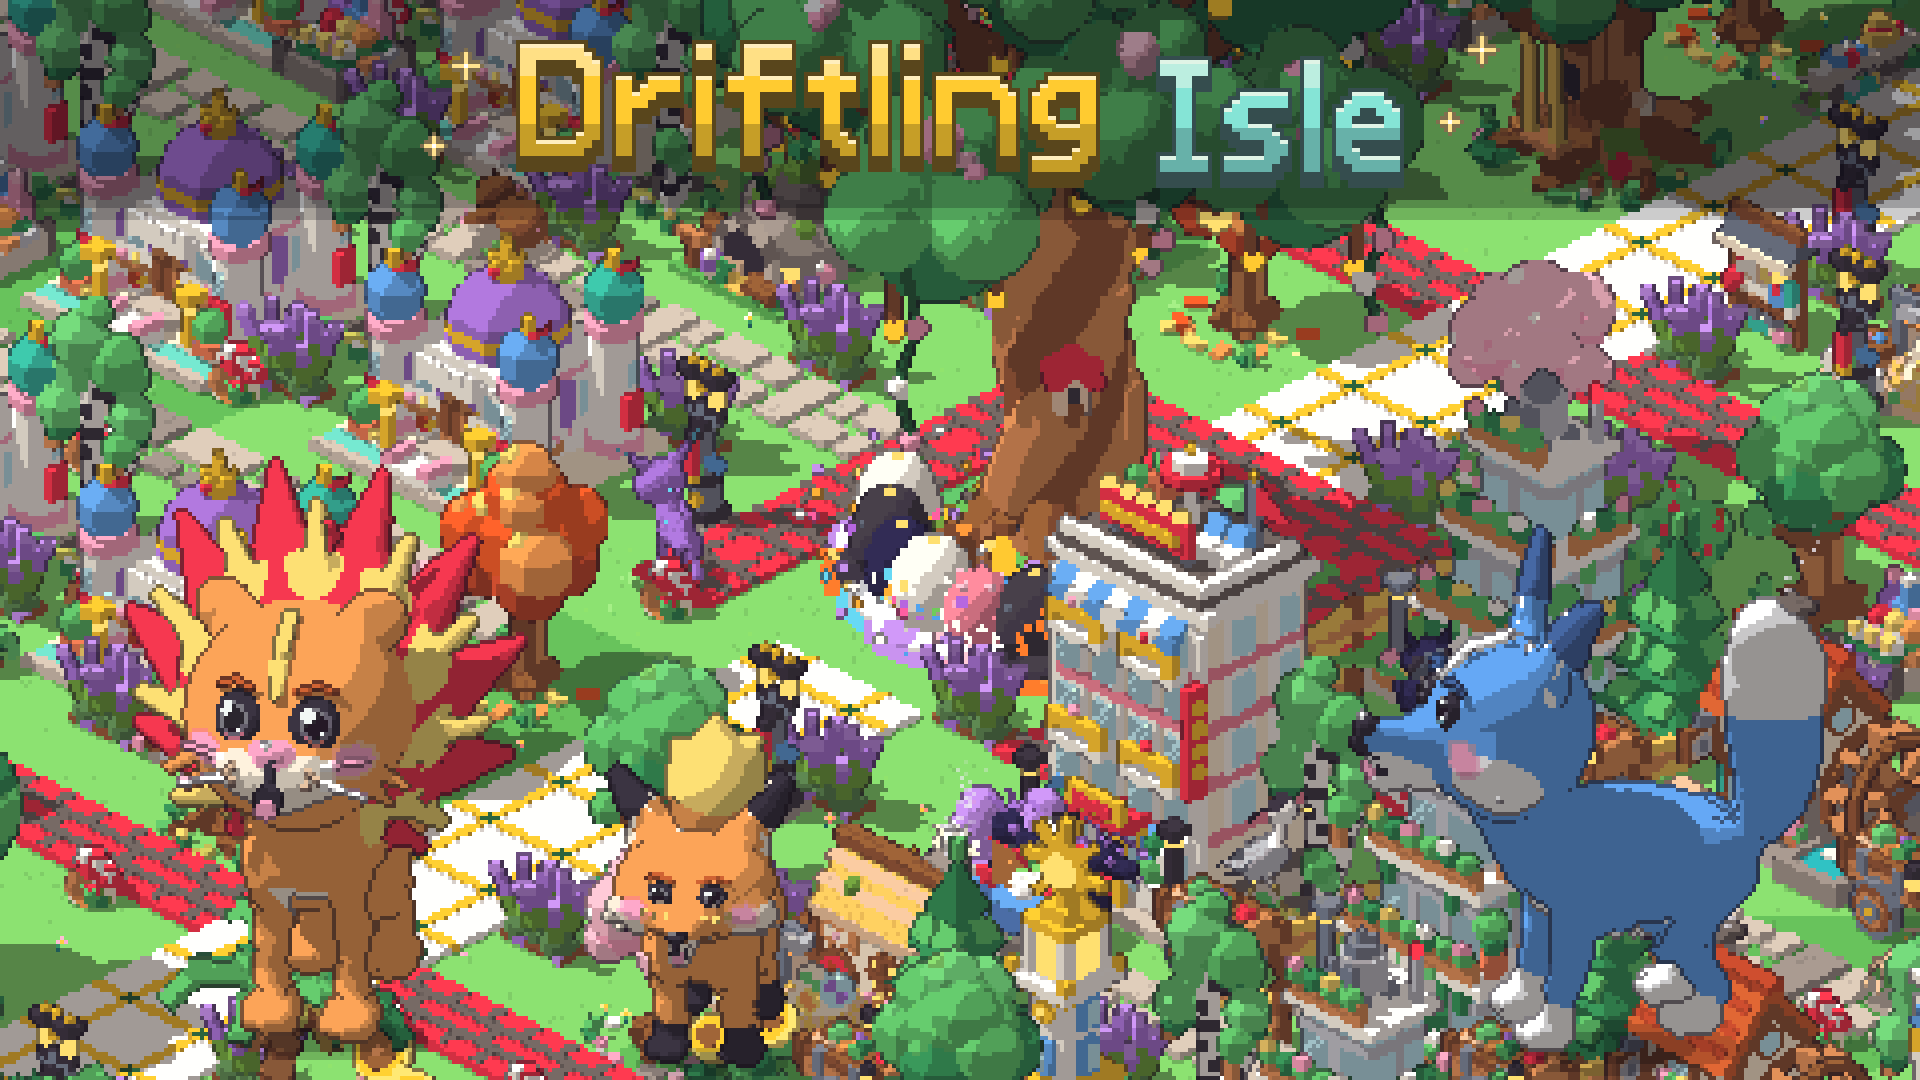
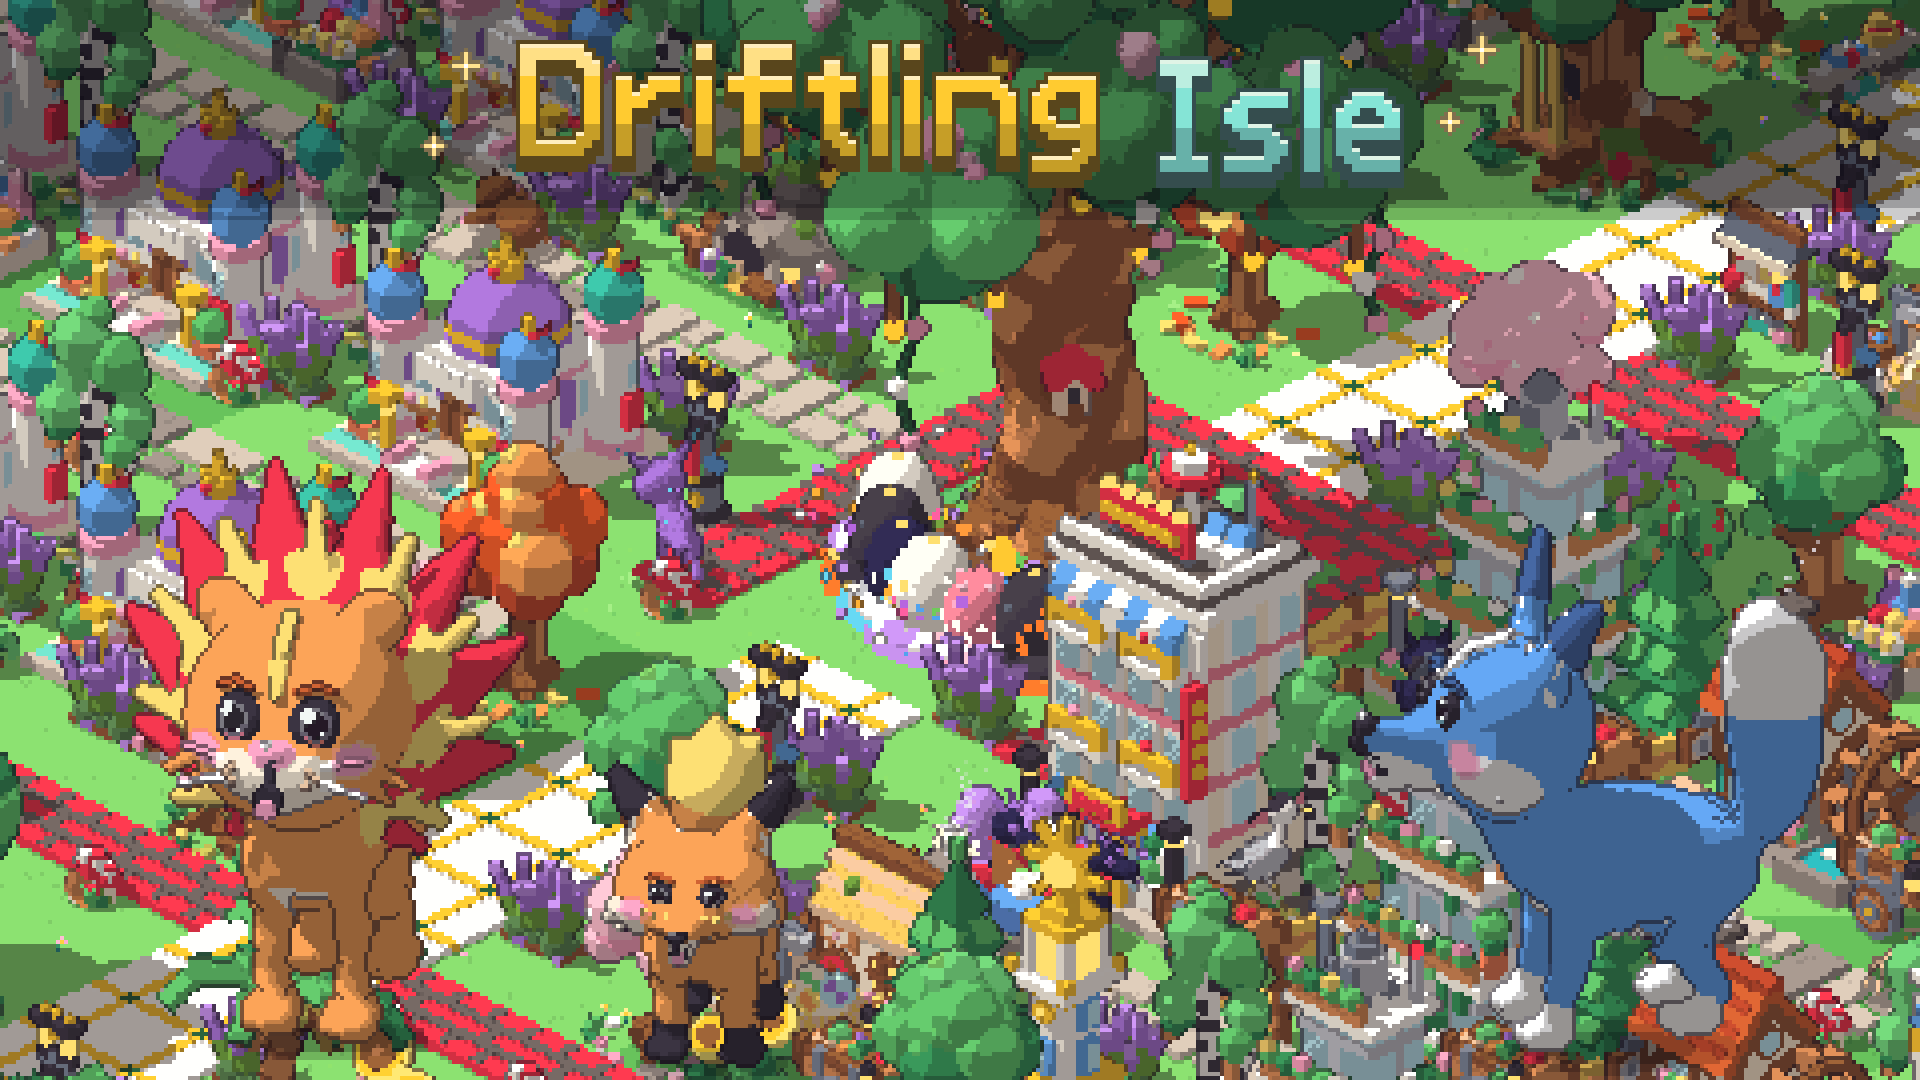
Tree of Life: the trunk back as it was; preview treebake
At the user's request ("please dont change how the trunk looks, keep it as it
was before. just fix the bug") the strands and roots take two woods by turns
again, the knots and the wood's grain are back and the wood is lit as before.
Only the glowing marks stay off. The thumbnails and the loading still are
rendered again with it.

New preview treebake: the island baked again on the real clock, a frame at a
time as the game does, then the tree checked against a fresh cast (445 frames,
0 pixels off).

Claude-Session: https://claude.ai/code/session_01MB1RUFKET2ZiukLybtpPJi

Changed region(s): [[0.5, 0.3056, 0.5938, 0.5194], [0.5, 0.2139, 0.5938, 0.3361], [0.625, 0.0306, 0.6562, 0.0611]]

diff --git a/tools/README.md b/tools/README.md
@@ -162,6 +162,7 @@ clipped every label and hid the overflow players saw).
 | `expandperf=<tier>` | `expandperf_before`, `expandperf_after` | an island at that tier with every limit filled (`fillMax`, up to 60 driftlings) in Build mode, its next island built ahead and, before the timing, its picture cast ahead (the scenario waits for the job, up to 3000 frames, and logs it), timed on the real clock: 120 frames standing, then `island.expand` asked straight from the server inside the first timed frame (the tray's loading card left out, so the swap and the filter's work are what is timed) (the server's answer counts in it) and frames until the new land is drawn (the tier changed, 20 frames past it, no bake or re-cast left), then 120 standing. Each part logs the frames (the slowest and where), the pixel filter's share and its re-casts (and their finishing), the parts that came or went and their rects' ms, the scripts' ms a frame, WorldView's parts, and the harness's own raycast index rebuilds (a cost Roblox does not have: a part come or gone makes the harness rebuild its BVH on the next ray); then the swap (tiles pasted from the cast ahead, cast again, part changes skipped and others) and a check of the picture against a fresh cast |
 | `expandrim=<tier>` (options `:quick`, `:xN`, `:ui`, `:replica`, `:midbake`, joined) | `expandrim_before`, `expandrim_after`, `expandrim_worst` | the reports of 2026-11-20, "there are artifacts that appear around after expanding" and "the tree outlines are still broken": an island at that tier at night in the rain, in Build mode; the view dragged round the island (Build mode's drag, `CameraController.panBy`, 40 art px a step: out to the drag's limit and round, or with `:quick` four steps out and back) so the pan cache holds it, the next island built ahead and cast ahead, then Expand (straight to the server, or with `:ui` through the tray and its loading card) and the drag round again, N times with `:xN`. At every step the layer is checked against a fresh cast with its ink (`PixelRenderer.debugCastCheck(true, true)`): the pixels off, sorted into sky where a part is, a part where there is sky, ink alone and ties (two faces at one depth, the ray index's to pick, not counted), the 32 px tiles they fall in, and those inside the Tree of Life's box. `:replica` swaps the tree that lands for a fresh copy of itself (what a client receives of a model the server parents to nil on the way); `:midbake` starts a whole bake just before the expansion lands. The log says whether each round's next island was cast ahead (the job's tier, tiles done, switched) and what the swap pasted; a warning (EXPANDRIM) when any pixel is off |
 | `treewalk[=<tier>]` (options `:expand`, `:sim`) | `treewalk_start`, `treewalk_worst`, `treewalk_end`, `treewalk_fresh` | the report of 2026-11-20, "the tree still looks like this" (creases in the trunk and a ragged outline in play, which no fresh picture showed): an island at that tier (11 by default) at midday, played the way a player does. The founder walks a loop round the Tree of Life, out across the island and back with the view following, stands, hatches an egg (the hatch scene's stage and back), moves the View slider to 5, 9 and back to 7, opens and shuts Build mode and walks on (`:expand`: after one expansion first). The renderer's budgets read the real clock as in the game, so bakes and re-casts spread over frames (`:sim`: the simulator's clock). Every few frames the layer is checked against a fresh cast over the tree's box (`PixelRenderer.debugCastCheck(true, true)`), the pixels off counted by kind, the layer's outermost row and column apart (a fresh cast inks them against nothing past the edge); `treewalk_fresh` is the last view baked afresh. `python3 tools/preview/tree_walk.py <outdir>` marks the worst check's pixels on its frame and puts the last frame beside the fresh one with their difference. A warning (TREEWALK) when one check has more than 6 pixels off inside the layer (a pixel or two at a shadow's edge, lit one way on the layer and the other in a fresh cast, is the usual). Its first runs (tier 11 and 16, desktop and phone, and after an expansion that grows the tree a stage): 3 to 24 pixels over 144 checks, never more than 2 at one, all of them sun on a shadow's edge; nothing like the creases of the report |
+| `treebake[=<tier>]` | `treebake_after`, `treebake_fresh` | the reports of 2026-11-20 (the tree's small round pieces with spikes and loose outline pixels in the game): the harness bakes on the simulator's clock, which stands still inside a frame, so a bake always finished in one; the game spreads a bake over many frames. An island at that tier (1 by default) at midday, its picture baked again on the real clock frame by frame, then checked against a fresh cast over the tree's box (TBMASK rows mark what is off). A warning (TREEBAKE) past 6 pixels off. Its first run: 445 frames, 0 off |
 | `treesplit[=<tier>]` | `treesplit_after`, `treesplit_fresh` | the report of 2026-11-20, "this only happens to the tree of life": in the game the Tree of Life's 400 to 800 parts reach the client over several frames, never at once as here. An island at that tier (11 by default) at midday, drawn; the tree taken away and its parts brought back into a new model in five batches a few frames apart (a sixth first); then the layer checked against a fresh cast over the tree's box. A warning (TREESPLIT) past 6 pixels off. With `SmoothParts.changed` in: 0; without it: 1 |
 | `ambient` | `ambient`, `ambient_000` .. `ambient_015`, `ambient_flee_000` .. `009`, `ambient_night` | the islands' small lives (GAME_DESIGN 8.1, `Controllers/AmbientView`) on a harbour island with chimneys, a smokehouse, a grill, trees and a picket fence by the plaza: the birds called in (`AmbientView.debugHurry`) and landed (`ambient`); a frame every eighth of a second for two seconds (`ambient_000` ..: hops, pecks, tufts leaning in a gust, smoke curling, glints; `make_gif.py <outdir> ambient <device> 8`); the founder put by a perched bird and a frame every tenth of a second as it flies off (`ambient_flee_*`); the island at night with its fireflies (`ambient_night`). The log lists every bird (its kind, state, perch and screen px), what is drawn in each frame, and the timing: 90 frames at 60 Hz on the real clock with the lives, 90 without (`AmbientView.setSuspended`) and 90 with them again, the client's whole frame each time, and a tick's effect costs (`PixelRenderer.fxStats`: the layers' ms, the books' ms, pixels written and changed, rects and pixels uploaded; and the layer's parts: the life, the tufts, the glints and particles, the creatures) |
 | `work` | `work`, `work_000` .. `work_015` | the village a while on, its driftlings at work at the fields, the lumber camp, the pier and the stall, or napping at a hut, then a frame every eighth of a second for two seconds (`python3 tools/preview/make_gif.py <outdir> work desktop`) |

diff --git a/CLAUDE.md b/CLAUDE.md
@@ -19,7 +19,7 @@ village island2 island3 city everdrift gallery tree treeink day dusk night dawn 
 loading themes hatches weathers crowd alerts`, `showcase=<1..20>` (a well decorated town on an island of that expansion level), `panel=<pals|work|tree|hatch|index|looks|pal|settings|welcome|rewards>` (and `panel=store:<passes|eggs|shop|track>`, `panel=looks:<skin|style|bangs|hair|eyes|shirt|top|apron|hat|face|neck|back|hand|outfits|titles>` (the My founder screen), `panel=rewards:<today|tasks|spin|index|codes>`), `hatch=<r><hr>` (the hatch scene: an egg laid as rarity r
 that hatches as hr), `pals=<n>` or `pals=<id>,<id>` (eight driftlings up close), `looks=<n>` or `looks=<id>,<id>` (eight founders up close wearing
 the cosmetics, with their white outlines and name tags; `looks=f<1..5>` the customization screen's features: new styles, bangs,
-aprons and eye colours, tints and the hand's turn, covering hats), `stress=<n>` (the full-island stress walk's first n legs), `expandperf=<tier>` (a full island at that tier expanded once, every frame timed), `expandrim=<tier>[:quick][:xN][:ui][:replica][:midbake]` (expansions with the view dragged round the island, the picture checked against a fresh cast at every step, over the tree too), `treeink=<n>` or `treeink=<n>,<tier>[,<turn>]` (the Tree of Life's stray marks and loose bits counted at View notch n at midday, on an island of that tier, turned by `<turn>` degrees), `treewalk[=<tier>][:expand]` (the founder walking round the tree as a player does, hatching an egg, the View slider moved, Build mode opened, the tree's box checked against a fresh cast every few frames; `tools/preview/tree_walk.py <outdir>` marks what is off), `treesplit[=<tier>]` (the tree's parts handed over in batches, as the game's replication does, then checked against a fresh cast), `zoom=<1..10>` or `zooms` (the harbour island with the View slider on that notch, the Settings panel open and shut), `screen=<125|150|175|200>` (Settings' Screen at that scale: the log says the pixel size in the screen's own pixels and whether the pixel layer and every interface canvas sit on whole ones), `anim=<id>` or `anim=<id>:<mood>,<mood>` (one driftling moving
+aprons and eye colours, tints and the hand's turn, covering hats), `stress=<n>` (the full-island stress walk's first n legs), `expandperf=<tier>` (a full island at that tier expanded once, every frame timed), `expandrim=<tier>[:quick][:xN][:ui][:replica][:midbake]` (expansions with the view dragged round the island, the picture checked against a fresh cast at every step, over the tree too), `treeink=<n>` or `treeink=<n>,<tier>[,<turn>]` (the Tree of Life's stray marks and loose bits counted at View notch n at midday, on an island of that tier, turned by `<turn>` degrees), `treewalk[=<tier>][:expand]` (the founder walking round the tree as a player does, hatching an egg, the View slider moved, Build mode opened, the tree's box checked against a fresh cast every few frames; `tools/preview/tree_walk.py <outdir>` marks what is off), `treesplit[=<tier>]` (the tree's parts handed over in batches, as the game's replication does, then checked against a fresh cast), `treebake[=<tier>]` (the island baked again on the real clock, a frame at a time as in the game, then the tree checked against a fresh cast), `zoom=<1..10>` or `zooms` (the harbour island with the View slider on that notch, the Settings panel open and shut), `screen=<125|150|175|200>` (Settings' Screen at that scale: the log says the pixel size in the screen's own pixels and whether the pixel layer and every interface canvas sit on whole ones), `anim=<id>` or `anim=<id>:<mood>,<mood>` (one driftling moving
 on its skeleton, eight frames a mood; a mood `act_<name>` plays one of DriftMotion's idle acts through in nine frames), `catalog=<group>` (a group of the build catalog: `ground fence
 nature theme theme2 fun`, a Build mode tab or ids), `theme=<beach|garden|frost|zen|volcano|fairy>` or `weather=<sunny|breezy|rain|storm|fog|snow|blossom|haze|leaves>` (the village by its tree in that weather, two touched eggs, the HUD's season and weather lines). The loading card's
 art is generated: `sh tools/preview/loading_art.sh` (after changing a model it shows); so are the game passes' and

diff --git a/docs/GAME_DESIGN.md b/docs/GAME_DESIGN.md
@@ -1541,24 +1541,12 @@ blue rectangles stuck on the trunk. They are gone at every stage. The tree's lig
 fruit, its lanterns and its rings of light. (The paragraphs above describe the tree as it was built; where they mention
 runes or marks on the stones, those are the parts that went.)
 
-**One wood a strand** (the report of 2026-11-20, "this only happens to the tree of life, can you look into it?", after
-"it still looks uneven no matter what pixel scale i use"). The game draws the tree as the previews do, so the trouble
-was in how it was built: each braided strand and each root took two woods by turns, a segment light and the next
-dark, with a knot (a ball with a dark heart) every third segment. At play size that came out as light and dark
-chunks with stepped edges all over the trunk, which nothing else on the island has. Now a strand is one wood from foot
-to limbs, a root one wood too, and the knots are gone, so the braid reads as three clean bands round the core. (The
+**The trunk as it was** (2026-11-20: "please dont change how the trunk looks, keep it as it was before. just fix the
+bug"). For a few builds the same day the strands and roots were one wood each, the knots and the wood's grain were
+gone and the wood was lit by its own shape; all of that is back as it was. Only the glowing marks stay off. (The
 renderer also gathers a smooth model's balls again whenever a part of it comes or goes: in the game the tree's parts
 reach the client over several frames. The preview `treesplit` hands them over in batches and checks the picture
 against a fresh cast.)
-
-**Wood without grain, lit by its own shape** (the report of 2026-11-20: "its still uneven. do you think it might be
-because of the dithering shading it uses?"). The shading bands have no dither, but the wood had grain: every small
-piece of the tree took its own pattern, so each slanted segment of a strand had grain running its own way, and its
-lighter marks, which show only in full light, broke the trunk's sunny side into speckled patches that read like a
-dither. A model lit as one smooth surface now takes no surface pattern at all. And the wood (the core, the strands,
-the roots and the limbs) is lit by its own round shapes like any log, the way a cylinder is shaded in pixel art: a
-clean light band down each strand's sunny side. Blended across the balls at its joints, a lit band's edge wavered from
-one joint to the next. The leaf clouds keep the blended light.
 
 **It grows with the island** (`Tree.stage`, `TreeStage` by tier: 1, 2, 2, 3, 3, 4 from the capital, 5 from Lantern Cove,
 6 from Amberfield): stage 2 on a Palm Isle and a Grand Isle, 3 on Harbor Town and Coral City, 4 from the capital to

diff --git a/docs/ARCHITECTURE.md b/docs/ARCHITECTURE.md
@@ -514,10 +514,8 @@ Models (`src/shared/Models`, Roblox modules):
   4; `StoneMoss` tufts, gold from stage 4, moss down the face, `Lichen`, a gap at the front);
   `Root`s flaring from about 1.8 studs up the trunk, the big ones dipping into the ground and coming up again past the
   stones, with rootlets (simpler behind the trunk); a `Trunk` core and three braided `Strand`s (each a `tube`, one
-  facing the camera, the other two ending either side of the doorway; one wood each, the roots too: two woods by turns
-  and `Knot`s drew as light and dark chunks, 2026-11-20; the `Trunk`, `Strand`, `Root` and `Branch` parts "PixelOwn",
-  lit by their own shapes, not blended across the balls), `BarkMoss` on the camera's side (no `Rune`s or `Glyph`s since
-  2026-11-20: they drew as blue rectangles); the `Hollow` at the front
+  facing the camera, the other two ending either side of the doorway), `Knot`s with dark hearts and `BarkMoss` on the
+  camera's side (no `Rune`s or `Glyph`s since 2026-11-20: they drew as blue rectangles); the `Hollow` at the front
   with its glowing `Pod` (Neon) in an arched frame (`Lintel`, `Jamb`s), a stone `Step` and a `Lantern` on a `Post` either side (from stage 1); a
   `BirdHouse` (`BirdRoof`, `BirdHole`, `Perch`) on the trunk; round `Branch` limbs (tubes) out to the leaf clouds,
   each one `Leaves` ball with `LeafPuff` lobes, `LeafLit` patches on the sunny side and `LeavesUnder` beneath (the
@@ -1635,8 +1633,7 @@ those darkened, and the ground ones darkened), `Changed: Signal<PixelTier>`,
   `Smooth.onSolids` gives the nearest one's gradient there and a weight (1 on its surface, 0 `SOLID_REACH` 0.12 studs
   off it), blended into the normal in `shadeTex`. A smooth solid itself keeps its own normal (`SmoothParts.role`: its
   "PixelShape" set). The static bake (`castSample`): a hit on a smooth model's part asks
-  `SmoothParts.staticNormal` (a part of a smooth model takes no surface texture, `texInfoOf`: per-piece wood grain
-  read as a dither on the tree's trunk, 2026-11-20; the model's balls gathered the first time one of its parts is hit; `SmoothParts.reset` at
+  `SmoothParts.staticNormal` (the model's balls gathered the first time one of its parts is hit; `SmoothParts.reset` at
   `startBake`; `SmoothParts.changed(part)` when a part comes to or leaves a smooth model under Workspace.Plots drops
   that model's balls and the renderer casts the model's whole box again once that frame, since in the game the tree's
   parts reach the client over several frames) and stores
